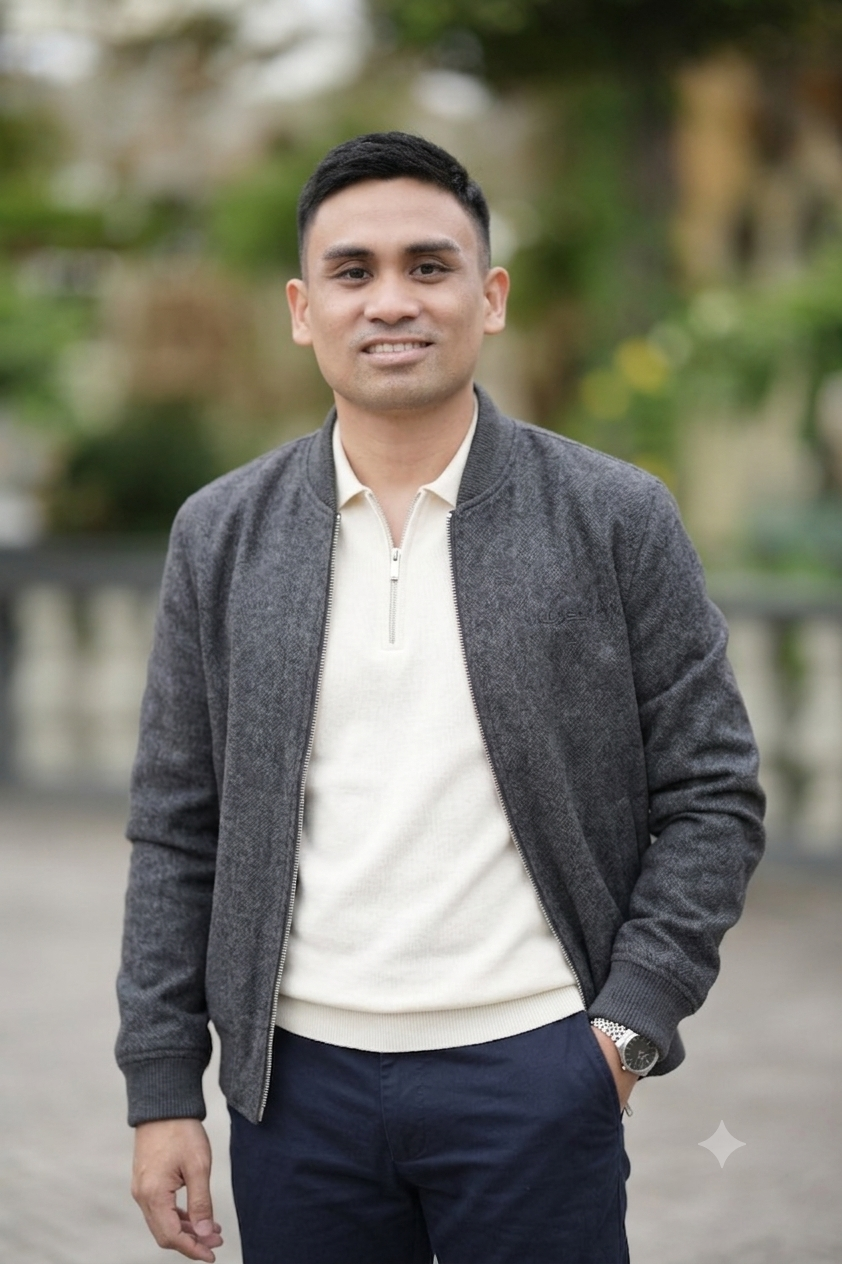
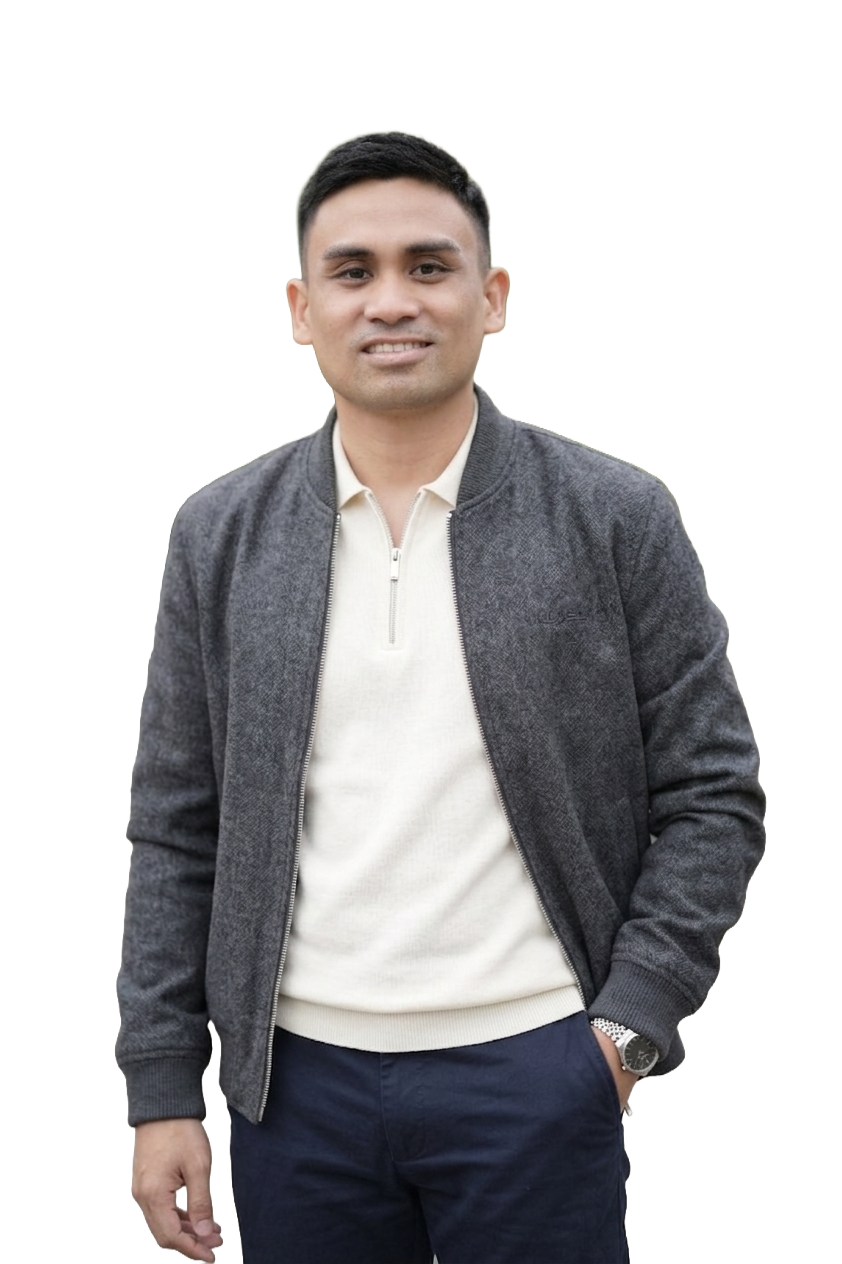
Added revisions

diff --git a/index.css b/index.css
@@ -45,10 +45,10 @@ h1, h2, h3, h4, h5, h6{
 	z-index: 1000;
 	display: flex;
 	justify-content: space-between;
-	align-content: center;
+	align-items: center;
 	padding: 20px 64px;
 	background-color: rgba(16, 16, 16, 0.38);
-	opacity: 2;
+	opacity: 1;
 	backdrop-filter: blur(40px);
 	-webkit-backdrop-filter: blur(40px);
 }
@@ -105,7 +105,7 @@ h1, h2, h3, h4, h5, h6{
 
 .hero-content{
 	position: relative;
-	z-index: 1;
+	z-index: 3;
 	text-align: center;
 	max-width: 820px;
 	margin: auto;
@@ -160,7 +160,7 @@ h1, h2, h3, h4, h5, h6{
 
 .hero-footer{
 	position: relative;
-	z-index: 2;
+	z-index: 1;
 	display: flex;
 	align-items: center;
 	justify-content: space-between;
@@ -217,7 +217,7 @@ h1, h2, h3, h4, h5, h6{
 
 .skills-section{
 	position: relative;
-	z-index: 2;
+	z-index: 3;
 	display: flex;
 	flex-direction: column;
 	align-items: center;
@@ -987,6 +987,12 @@ h1, h2, h3, h4, h5, h6{
 
 	.hero-header {
 		padding: 18px 48px;
+		align-items: center;
+		gap: 10px;
+	}
+
+	.logo{
+		margin-right: auto;
 	}
 
 	.hero-title {
@@ -1395,5 +1401,87 @@ h1, h2, h3, h4, h5, h6{
 	.footer-col {
 		min-width: 0 !important;
 		width: 100% !important;
+	}
+}
+
+.brand {
+	display: flex;
+	align-items: center;
+	gap: 8px;
+}
+
+.logo {
+	line-height: 1;
+}
+
+.brand-avatar {
+	--avatar-size: 28px;
+	display: none;
+	flex: 0 0 var(--avatar-size);
+	width: var(--avatar-size);
+	height: var(--avatar-size);
+	border-radius: 50%;
+	overflow: hidden;
+	border: 1.5px solid #456504;
+	background-color: #1a1a1a;
+}
+
+.brand-avatar img {
+	width: 100%;
+	height: 100%;
+	display: block;
+	object-fit: cover;
+	object-position: top center;
+}
+
+/* TABLET & MOBILE */
+@media (max-width: 1366px) {
+	.brand-avatar {
+		display: block;
+	}
+
+	.hero-dp-wrapper {
+		display: none;
+	}
+}
+
+@media (max-width: 768px) {
+	.brand-avatar {
+		--avatar-size: 26px;
+	}
+}
+
+/* Desktop */
+
+@media (min-width: 1367px) {
+	.brand-avatar {
+		display: none;
+	}
+
+	.hero .hero-dp-wrapper {
+			display: block !important;
+			position: absolute !important;
+			left: 48px !important;
+			bottom: 54px !important;
+			top: auto !important;
+			width: auto !important;
+			height: auto !important;
+			transform: none !important;
+			border: none !important;
+			border-radius: 0 !important;
+			overflow: visible !important;
+			background: transparent !important;
+			z-index: 2;
+			pointer-events: none;
+		}
+
+	.hero .hero-dp-wrapper img {
+		display: block !important;
+		width: auto !important;
+		height: auto !important;
+		max-width: none !important;
+		max-height: none !important;
+		object-fit: initial !important;
+		transform: none !important;
 	}
 }

diff --git a/index.html b/index.html
@@ -21,7 +21,13 @@
 	<!-- hero section -->
 	<section class="hero" id="landing">
 		<header class="hero-header">
-			<h3 class="logo">KRIS</h3>
+			<div class="brand">
+				<h3 class="logo">KRIS</h3>
+				<span class="brand-avatar">
+					<img src="./images/DP 1.png" alt="profil picture">
+				</span>
+			</div>
+			
 
 			<input type="checkbox" id="navToggle" class="nav-toggle" aria-label="Toggle Nav Menu">
 
@@ -42,6 +48,10 @@
 
 		<div class="hero-bg-wrapper">
 			<img src="./images/JK.png" alt="background text">
+		</div>
+
+		<div class="hero-dp-wrapper">
+			<img src="./images/DP 1.png" alt="profil picture">
 		</div>
 
 		<div class="hero-content">
